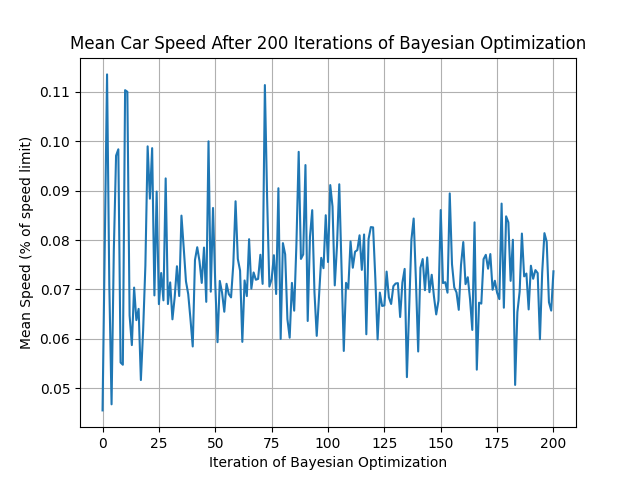
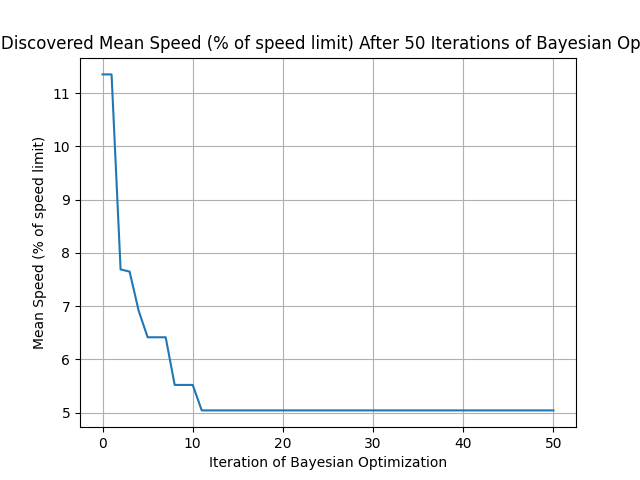
Bayesian Optimization Works

diff --git a/xdraft/emulator.py b/xdraft/emulator.py
@@ -2,6 +2,7 @@ import pickle
 
 import GPy
 import numpy as np
+from emukit.core.initial_designs import RandomDesign
 from emukit.core.loop import UserFunctionWrapper
 from emukit.model_wrappers.gpy_model_wrappers import GPyModelWrapper
 from emukit.experimental_design.acquisitions import ModelVariance
@@ -95,56 +96,36 @@ class emu():
         return self.model.predict(x)
 
     def call_split(self, x, rest):
-        return self.call(np.expand_dims(np.append(x, rest), axis=0))[0]
+        return self.call(np.expand_dims(np.append(x, rest), axis=0))
 
     # partial_x will be things like number of cars on the road
-    def optimise(self, partial_x, to_optimize=FOURLIGHTS, iterations=50, maximize=True):
+    def optimise(self, partial_x, to_optimize=FOURLIGHTS, iterations=50):
         assert len(partial_x) == 17
-        if maximize:
-            sign = -1
-        else:
-            sign = 1
+
 
         # optimise_x are the parameters to optimise
         def partial_call(optimise_x):
-            print("input is " + str(optimise_x))
-            output = sign * self.call(np.expand_dims(np.append(optimise_x, partial_x), axis=0))[0]
-            print("output is " + str(output))
+            output = -self.call(np.expand_dims(np.append(optimise_x, partial_x), axis=0))[0]
             return output
 
         user_function = UserFunctionWrapper(partial_call)
-        x_init = np.array([np.ones(len(to_optimize))])
+        x_init = np.array([np.ones(len(to_optimize))])*0.1
         y_init = partial_call(x_init)
 
         bo = GPBayesianOptimization(variables_list=to_optimize,
-                                    X=x_init, Y=y_init)
+                                    X=x_init, Y=y_init,batch_size=1)
         bo.run_optimization(user_function, iterations)
 
-        maximum = bo.loop_state.X[-1]
-        return maximum, bo.loop_state
-
-        # reducedspace = ParameterSpace(to_optimize)
-        # user_function = UserFunctionWrapper(partial_call)
-        # optimizer = GradientAcquisitionOptimizer(reducedspace)
-
-        # acquisition = ExpectedImprovement(model=self.model)
-        # loop = BayesianOptimizationLoop(space=reducedspace,
-        #                                model=self.model,
-        #                                acquisition=acquisition,
-        #                                acquisition_optimizer=optimizer,
-        #                                batch_size=1)
-
-        # loop.run_loop(user_function, iterations)
-        # maximum = loop.loop_state.X[-1]
-        bo.run_loop(user_function, iterations)
-        maximum = bo.loop_state.X[-1]
-        return maximum, bo.loop_state
+        best_per_it = np.maximum.accumulate(bo.loop_state.Y)
+        best_result = np.max(bo.loop_state.Y)
+        best_config = bo.loop_state.X[np.where(bo.loop_state.Y == best_result)]
+        return best_result,best_config,best_per_it,bo.loop_state
 
 
 if __name__ == '__main__':
     picklename = "emulator_test_many_iterations.pkl"
     explore_iterations = 400
-    optimize_iterations = 200
+    optimize_iterations = 50
     from_pickle = True
 
     if from_pickle:
@@ -163,15 +144,16 @@ if __name__ == '__main__':
     #ax.plot(xs, ys)
     #plt.show()
 
-    max_values, loop_state = e.optimise(INITIAL_PARTIAL_VARIABLES, iterations=optimize_iterations)
+    best_result,best_config,best_per_it, loop_state = e.optimise(INITIAL_PARTIAL_VARIABLES, iterations=optimize_iterations)
+
     xs = range(optimize_iterations + 1)
-    ys = [-1 * y[0] for y in loop_state.Y]
+    ys = -100*best_per_it
 
     fig, ax = plt.subplots()
     ax.plot(xs, ys)
 
     ax.set(xlabel='Iteration of Bayesian Optimization', ylabel='Mean Speed (% of speed limit)',
-           title='Mean Car Speed After ' + str(optimize_iterations) + ' Iterations of Bayesian Optimization')
+           title='Highest Discovered Mean Speed (% of speed limit) After ' + str(optimize_iterations) + ' Iterations of Bayesian Optimization')
     ax.grid()
 
     fig.savefig("bo_results.png")
@@ -190,8 +172,7 @@ if __name__ == '__main__':
         ax.plot(xs, y)
 
     ax.set(xlabel='Iteration of Bayesian Optimization', ylabel='Percent of time spent in each light configuration',
-           title='Traffic Light Configuration After ' + str(
-               optimize_iterations) + ' Iterations of Bayesian Optimization')
+           title='Exploration during Bayesian Optimization')
     ax.grid()
     fig.savefig("bo_config.png")
     plt.show()
